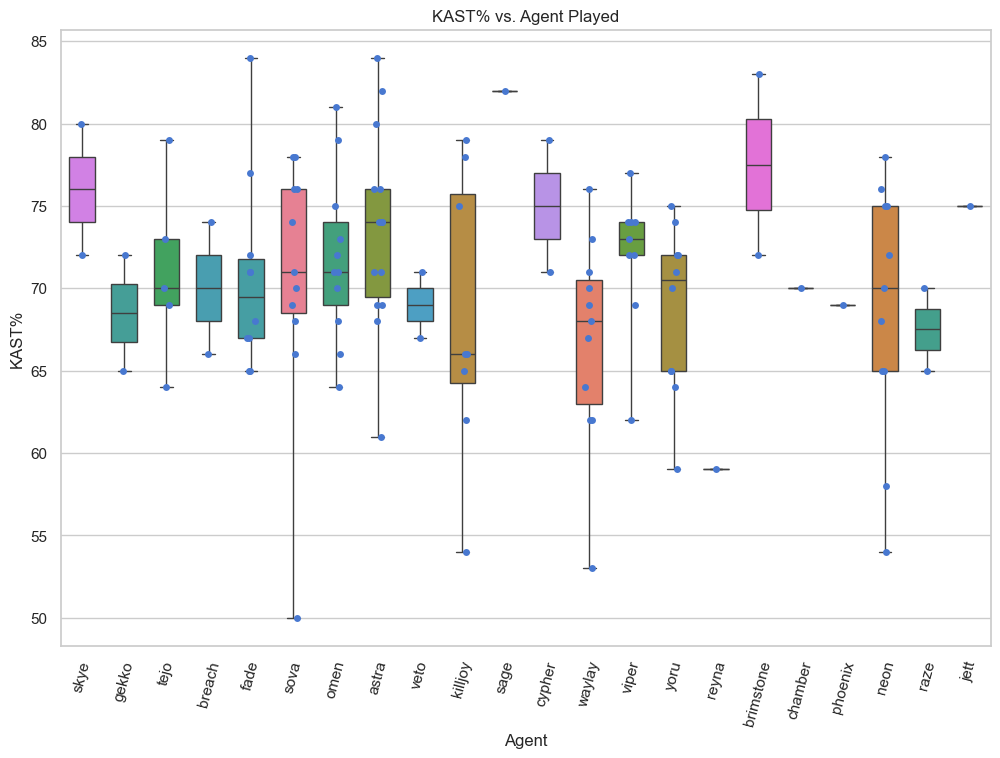
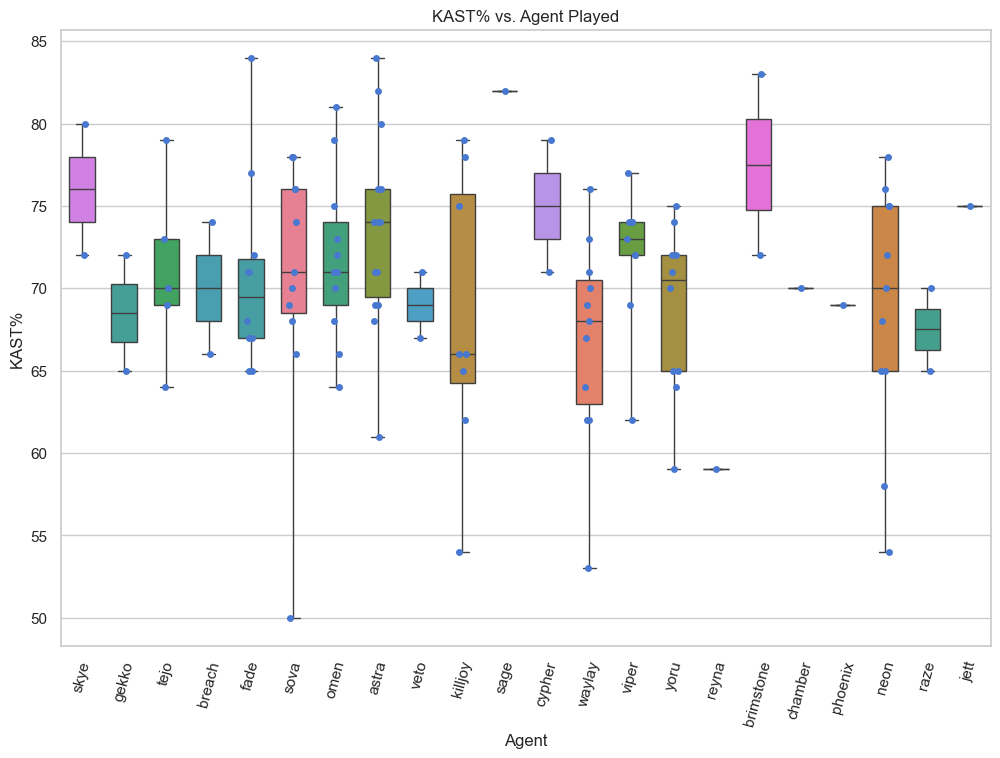
Predict round win rate and report top 5 players/agents
- Player model now computes round win rate from player_rnd_wins.csv
- Print the top 5 predicted players and agents (names only)
- Remove the prediction scatter plots from the ML modules
- Remove unused datasets (player_winrate.csv, players (3).csv)

diff --git a/ml_players.py b/ml_players.py
@@ -9,7 +9,6 @@ machine learning model to predict player win rates from
 individual performance statistics.
 """
 import pandas as pd
-import matplotlib.pyplot as plt
 from sklearn.neural_network import MLPRegressor
 from sklearn.preprocessing import StandardScaler
 from sklearn.model_selection import train_test_split
@@ -17,16 +16,16 @@ from sklearn.model_selection import train_test_split
 
 def merge_player_ml_data() -> pd.DataFrame:
     """
-    Reads player_agent.csv and player_winrate.csv, merges them
-    on the Player column, and returns a DataFrame with player
-    stats and win rate labels ready for machine learning.
+    Reads player_agent.csv, averages each player's stats across all
+    agents they played (weighted by rounds), computes each player's
+    round win rate from player_rnd_wins.csv, and merges the two,
+    returning a DataFrame ready for machine learning.
     """
     player_data = pd.read_csv('datasets/player_agent.csv')
     player_data['KAST%'] = (
         player_data['KAST%'].str.replace('%', '').astype(float)
     )
 
-    player_data['TotalRnd'] = player_data['Rnd']
     agg = player_data.groupby('Player').apply(
         lambda x: pd.Series({
             'ACS': (x['ACS'] * x['Rnd']).sum() / x['Rnd'].sum(),
@@ -38,12 +37,19 @@ def merge_player_ml_data() -> pd.DataFrame:
         include_groups=False
     ).reset_index()
 
-    winrate_data = pd.read_csv('datasets/player_winrate.csv')
-    merged = agg.merge(winrate_data, left_on='Player', right_on='Player')
+    wins = pd.read_csv('datasets/player_rnd_wins.csv')
+    wins['Win_Rate'] = wins['round_win'] / wins['rnd']
+
+    merged = agg.merge(wins[['Player', 'Win_Rate']], on='Player')
     return merged
 
 
 def player_ml_algorithm(merged_data: pd.DataFrame) -> None:
+    """
+    Trains a neural network to predict player win rate from their
+    performance stats. Prints the test R^2 score and returns the
+    fitted model and the scaler used on the features.
+    """
     features = merged_data[['ACS', 'K/D', 'KAST%', 'ADR', 'KPR']]
     labels = merged_data['Win_Rate']
 
@@ -68,45 +74,29 @@ def player_ml_algorithm(merged_data: pd.DataFrame) -> None:
     print('SCORE: ', score)
     return model, scaler
 
-'''
-def plot_ml_predictions(data: pd.DataFrame, model, scaler) -> None:
-    top30 = data.head(30).copy()
-    top30_features = top30[['ACS', 'K/D', 'KAST%', 'ADR', 'KPR']]
-    top30_scaled = scaler.transform(top30_features)
-    top30['Predicted'] = model.predict(top30_scaled)
 
-    plt.figure(figsize=(8, 8))
-    plt.scatter(top30['Win_Rate'], top30['Predicted'])
-
-    min_val = top30['Win_Rate'].min()
-    max_val = top30['Win_Rate'].max()
-    plt.plot([min_val, max_val], [min_val, max_val],
-             'r--', label='Perfect Prediction')
-
-    plt.xlabel('Actual Win Rate')
-    plt.ylabel('Predicted Win Rate')
-    plt.title('Predicted vs Actual Win Rate - Top 30 Players')
-    plt.legend()
-    plt.savefig('ml_predictions.png', bbox_inches='tight')
-    plt.clf()
-'''
-
-
-def predict_best_player(data: pd.DataFrame, model, scaler) -> str:
+def predict_top_players(data: pd.DataFrame, model, scaler) -> list:
     """
     Predicts the win rate for every player using the trained model and
-    returns the name of the player with the highest predicted win rate.
+    returns the names of the five players with the highest predicted
+    win rates.
     """
-    features = data[['ACS', 'K/D', 'KAST%', 'ADR', 'KPR']]
-    predicted = model.predict(scaler.transform(features))
-    return data.loc[predicted.argmax(), 'Player']
+    result = data.copy()
+    features = result[['ACS', 'K/D', 'KAST%', 'ADR', 'KPR']]
+    result['Predicted'] = model.predict(scaler.transform(features))
+    result = result.sort_values('Predicted', ascending=False)
+    return list(result['Player'].head(5))
 
 
 def main():
+    """
+    Builds the player dataset, trains the model, and prints the five
+    players with the highest predicted win rates.
+    """
     merged = merge_player_ml_data()
     model, scaler = player_ml_algorithm(merged)
-    #plot_ml_predictions(merged, model, scaler)
-    print('The most effective player by our model should be: ', predict_best_player(merged, model, scaler))
+    print('Top 5 players predicted by our model:')
+    print(predict_top_players(merged, model, scaler))
 
 
 if __name__ == '__main__':

diff --git a/ml_agents.py b/ml_agents.py
@@ -9,7 +9,6 @@ machine learning model to predict agents win rates from
 individual performance statistics.
 """
 import pandas as pd
-import matplotlib.pyplot as plt
 from sklearn.neural_network import MLPRegressor
 from sklearn.preprocessing import StandardScaler
 from sklearn.model_selection import train_test_split
@@ -17,9 +16,10 @@ from sklearn.model_selection import train_test_split
 
 def merge_agent_ml_data() -> pd.DataFrame:
     """
-    Reads player_agent.csv and player_winrate.csv, merges them
-    on the Player column, and returns a DataFrame with player
-    stats and win rate labels ready for machine learning.
+    Reads player_agent.csv, averages each agent's stats across all
+    players (weighted by rounds), and merges in each agent's overall
+    win rate from agent_picks.csv, returning a DataFrame ready for
+    machine learning.
     """
     agent_data = pd.read_csv('datasets/player_agent.csv')
     agent_data['KAST%'] = (
@@ -43,7 +43,13 @@ def merge_agent_ml_data() -> pd.DataFrame:
     merged = agg.merge(winrate_data, left_on='Agent', right_on='agent')
     return merged
 
+
 def agent_ml_algorithm(merged_data: pd.DataFrame) -> None:
+    """
+    Trains a neural network to predict an agent's win rate from its
+    average performance stats. Prints the test R^2 score and returns
+    the fitted model and the scaler used on the features.
+    """
     features = merged_data[['ACS', 'K/D', 'KAST%', 'ADR', 'KPR']]
     merged_data['win%'] = (
         merged_data['win%'].str.replace('%', '').astype(float)
@@ -72,17 +78,28 @@ def agent_ml_algorithm(merged_data: pd.DataFrame) -> None:
     return model, scaler
 
 
-def predict_best_agent(data: pd.DataFrame, model, scaler) -> str:
-    features = data[['ACS', 'K/D', 'KAST%', 'ADR', 'KPR']]
-    predicted = model.predict(scaler.transform(features))
-    return data.loc[predicted.argmax(), 'agent']
+def predict_top_agents(data: pd.DataFrame, model, scaler) -> list:
+    """
+    Predicts the win rate for every agent using the trained model and
+    returns the names of the five agents with the highest predicted
+    win rates.
+    """
+    result = data.copy()
+    features = result[['ACS', 'K/D', 'KAST%', 'ADR', 'KPR']]
+    result['Predicted'] = model.predict(scaler.transform(features))
+    result = result.sort_values('Predicted', ascending=False)
+    return list(result['agent'].head(5))
 
 
 def main():
+    """
+    Builds the agent dataset, trains the model, and prints the five
+    agents with the highest predicted win rates.
+    """
     merged = merge_agent_ml_data()
     model, scaler = agent_ml_algorithm(merged)
-    #plot_ml_predictions(merged, model, scaler)
-    print('The most effective agent predicted by our model should be: ', predict_best_agent(merged, model, scaler))
+    print('Top 5 agents predicted by our model:')
+    print(predict_top_agents(merged, model, scaler))
 
 
 if __name__ == '__main__':

diff --git a/project_code.py b/project_code.py
@@ -13,6 +13,7 @@ import matplotlib.pyplot as plt
 import ml_players
 import ml_agents
 
+
 def acs_kast_seven_num_sum(data: pd.DataFrame) -> pd.DataFrame:
     """
     Creates a seven-number summary for the ACS and KAST% variables from the
@@ -232,14 +233,13 @@ def main():
     various functions to make calculations and visualize various aspects
     of the data.
     """
-    
     data = pd.read_csv("datasets/player_agent.csv")
     data['KAST%'] = data['KAST%'].str.replace('%', '').astype(float)
-    
+
     teamcomps = pd.read_csv("datasets/Team comp wr.csv")
-    
+
     print(acs_kast_seven_num_sum(data).round(2))
-    
+
     adata = pd.read_csv('datasets/agent_picks.csv')
     adata['pick%'] = adata['pick%'].apply(lambda x: float(x[:-1]))
     adata['win%'] = adata['win%'].apply(lambda x: float(x[:-1]))
@@ -260,15 +260,15 @@ def main():
     # Machine learning challenge: predict win rate from performance stats
     player_ml = ml_players.merge_player_ml_data()
     player_model, player_scaler = ml_players.player_ml_algorithm(player_ml)
-    print('The most effective player by our model should be:',
-          ml_players.predict_best_player(
-              player_ml, player_model, player_scaler))
+    print('Top 5 players predicted by our model:')
+    print(ml_players.predict_top_players(
+        player_ml, player_model, player_scaler))
 
     agent_ml = ml_agents.merge_agent_ml_data()
     agent_model, agent_scaler = ml_agents.agent_ml_algorithm(agent_ml)
-    print('The most effective agent by our model should be:',
-          ml_agents.predict_best_agent(
-              agent_ml, agent_model, agent_scaler))
+    print('Top 5 agents predicted by our model:')
+    print(ml_agents.predict_top_agents(
+        agent_ml, agent_model, agent_scaler))
 
 
 if __name__ == '__main__':
